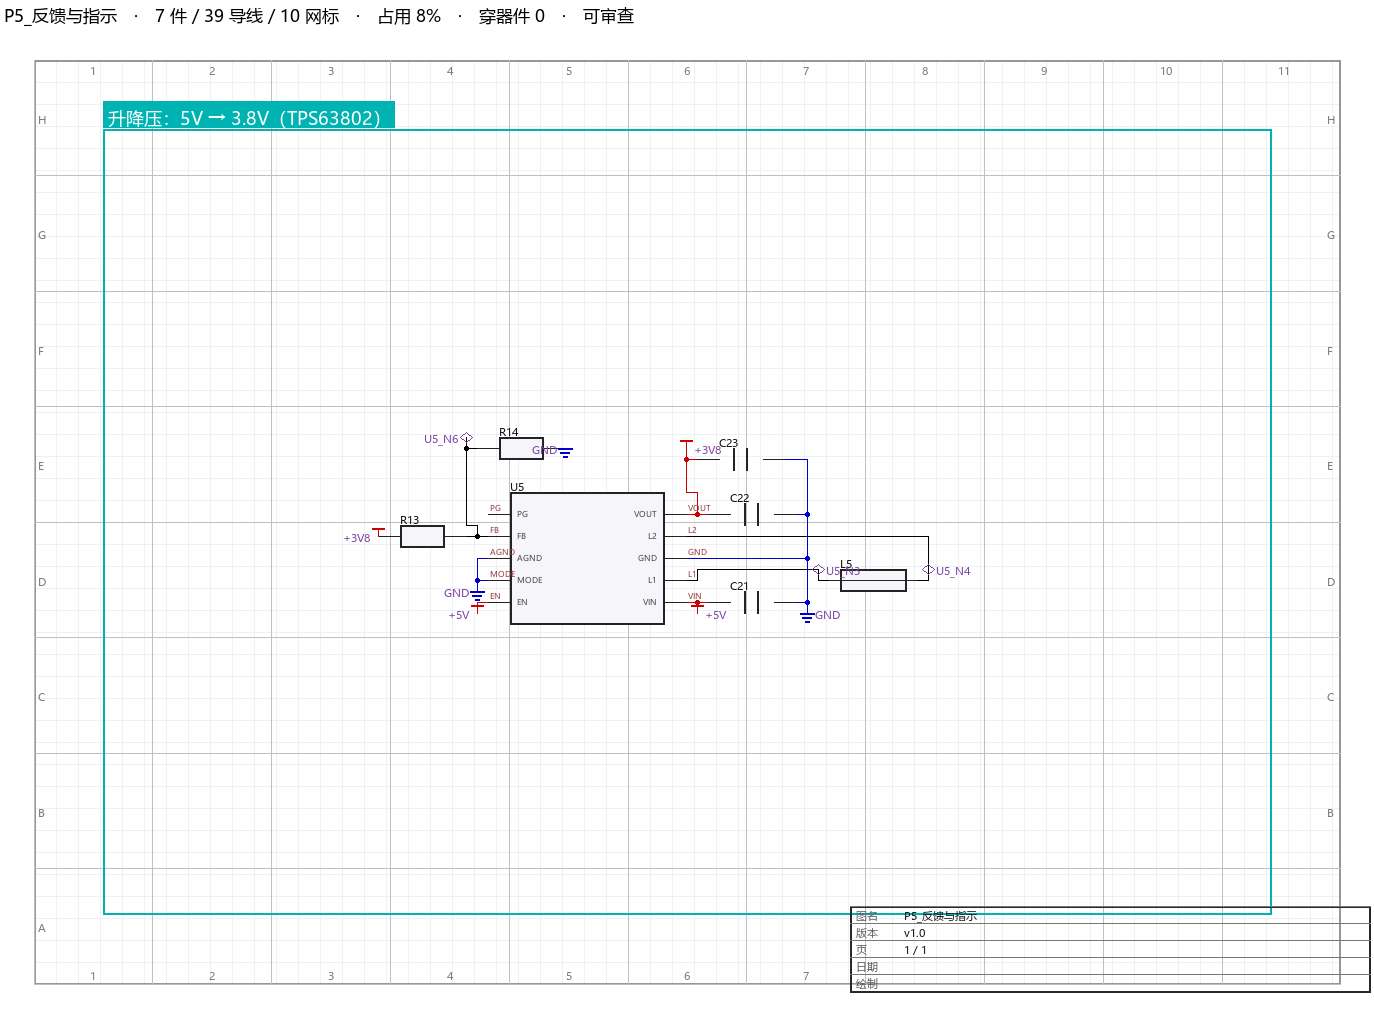
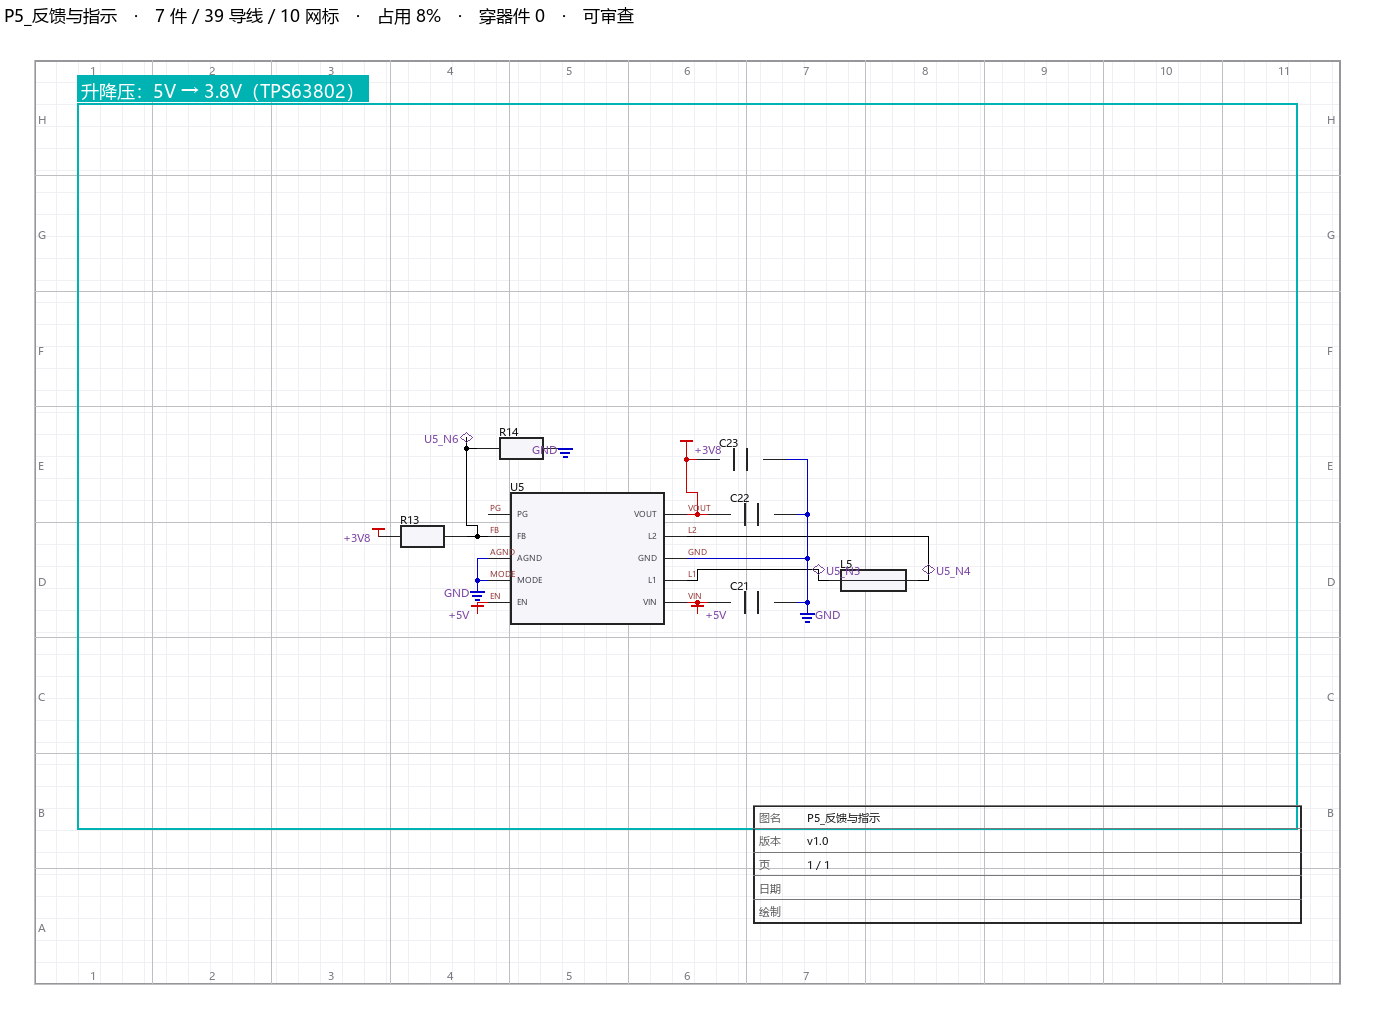
zooming the review image found two real defects: the title block sat outside the sheet, and the zone frame ran through it
The title block was positioned from the image bottom-right corner, but the sheet is drawn with padding and its scale is capped, so the image edge and the sheet edge are not the same line. The title
block was therefore partly outside the paper, with its right side clipped. Its rectangle is now a pure function of the page, used by both the exporter and the painter, so it lands inside the sheet
regardless of how the scale is capped.

The zone frame filling the usable area put its bottom-right corner straight through the title block, which is exactly the overlap the tokens forbid. The frame now raises its bottom edge above the
title block whenever the two would intersect.

Fixing that, I repeated a mistake I had already written down two rounds earlier: I changed only the drawing path, leaving the exported frame file describing the old rectangle. The exported frame
still had its bottom edge at 31.7, overlapping the title block, while the drawing had moved. The remedy is to make the algorithm singular, so the frame computation is now one shared zone_rect used by
both, and the title block rectangle is likewise one shared function. The exported frame now reports 71.25, clear of the title block.

Occupancy settles at seventy-three point one percent after yielding room to the title block, still inside the twenty-five to eighty percent band, and frame-to-content padding measures fourteen point
nine two millimetres against a two millimetre minimum.
[…]

diff --git a/easycirq/scripts/sch_layout_review.py b/easycirq/scripts/sch_layout_review.py
@@ -184,6 +184,58 @@ def quality(parts, wires, sheet):
 
 
 # ── 框数据（给 sch frame apply）──────────────────────────────────────
+TB_SCALE = 1.6        # 图签尺寸换算用的名义比例（只影响纸内的相对大小）
+TB_MAX_W = 520        # 图签最大宽度（像素，与绘制端一致）
+
+
+def title_block_page(sheet):
+    """图签的**页面坐标**矩形。只依赖页面，导出端与绘制端共用，避免两边不一致。"""
+    if not sheet:
+        return (0.0, 0.0, 0.0, 0.0)
+    sx0, sy0, sx1, sy1 = (sheet["minX"], sheet["minY"], sheet["maxX"], sheet["maxY"])
+    tbw = min((sx1 - sx0) * 0.42, TB_MAX_W / TB_SCALE)
+    tbh = 86.0 / TB_SCALE
+    inset = 6.0 / TB_SCALE
+    ruler = 22.0 / TB_SCALE
+    return (sx1 - tbw - inset, sy0 + ruler, sx1 - inset, sy0 + ruler + tbh)
+
+
+def zone_rect(doc, content, tb_page, scale):
+    """分区框：铺满可用区（受 tokens 80% 上限），并**避开图签**。
+
+    `frames_doc` 与 `render` 必须共用这一个算法 —— 算两遍就会出现
+    "画出来的框"和"导出的框"不一致（#91 踩过）。
+    """
+    r = content
+    sheet = doc.get("sheet") or {}
+    if not sheet:
+        return r
+    pg = (sheet["minX"], sheet["minY"], sheet["maxX"], sheet["maxY"])
+    pa = max(1e-9, (pg[2] - pg[0]) * (pg[3] - pg[1]))
+
+    def ratio(b):
+        return max(0.0, (b[2] - b[0]) * (b[3] - b[1])) / pa
+
+    if ratio(content) >= ZONE_AREA_MIN:
+        return r
+    r = expand(pg, -PAGE_MARGIN_RAW)
+    # 框会压住图签 → 把下沿抬到图签上方（tokens 把框压图签算违规）
+    if (r[0] < tb_page[2] and tb_page[0] < r[2]
+            and r[1] < tb_page[3] and tb_page[1] < r[3]):
+        r = (r[0], max(r[1], tb_page[3] + 6.0 / scale), r[2], r[3])
+    t = 0
+    while t < 40:
+        if ratio(r) <= ZONE_AREA_MAX:
+            break
+        n = expand(r, -6.0)
+        if (n[0] > content[0] or n[1] > content[1]
+                or n[2] < content[2] or n[3] < content[3]):
+            break
+        r = n
+        t += 1
+    return r
+
+
 def frames_doc(doc, modules, parts, page_name, color="#AA00AA"):
     frames = []
     for m in modules:
@@ -191,28 +243,8 @@ def frames_doc(doc, modules, parts, page_name, color="#AA00AA"):
         if not boxes:
             continue
         content = expand(union(boxes), FRAME_PAD)
-        # 分区框取**可用区**（页面减页边距），受 tokens 的 80% 上限约束。
-        # 只按器件包围盒外扩时，小电路的分区只占页面 5.5%，
-        # 违反 style-tokens.layout.zone_area_ratio（要求 25%~80%）。
-        r = content
-        _sheet = doc.get("sheet") or {}
-        if _sheet:
-            _pg = (_sheet["minX"], _sheet["minY"], _sheet["maxX"], _sheet["maxY"])
-            _pa = max(1e-9, (_pg[2] - _pg[0]) * (_pg[3] - _pg[1]))
-            if (max(0.0, (content[2] - content[0]) * (content[3] - content[1]))
-                    / _pa) < ZONE_AREA_MIN:
-                r = expand(_pg, -PAGE_MARGIN_RAW)
-                _t = 0
-                while _t < 40:
-                    _a = max(0.0, (r[2] - r[0]) * (r[3] - r[1])) / _pa
-                    if _a <= ZONE_AREA_MAX:
-                        break
-                    _n = expand(r, -6.0)
-                    if (_n[0] > content[0] or _n[1] > content[1]
-                            or _n[2] < content[2] or _n[3] < content[3]):
-                        break
-                    r = _n
-                    _t += 1
+        r = zone_rect(doc, content, title_block_page(doc.get("sheet")),
+                      TB_SCALE)
         frames.append({
             "id": m["id"],
             "title": page_name and ("%s · %s" % (page_name, m["title"])) or m["title"],
@@ -456,6 +488,15 @@ def render(doc, parts, wires, flags, modules, page_name, out_path, q):
             d.text((px(maxx, y0)[0] - 14, cy0 - 6), letter, fill=(120, 120, 128),
                    font=f_small)
 
+    # 图签的**页面坐标**矩形：右下角，让开底部标尺带。
+    # 先算好，供分区框避让（框压住图签正是 tokens 要拦的情况）。
+    # 图签矩形**只由页面决定**（与导出端共用同一函数），
+    # 用像素/scale 反推会让两边算出不同的框。
+    tb_page = title_block_page({"minX": minx, "minY": miny,
+                                "maxX": maxx, "maxY": maxy})
+    _tb_w_px = int((tb_page[2] - tb_page[0]) * scale)
+    _tb_h_px = int((tb_page[3] - tb_page[1]) * scale)
+
     # 模块框 + **色块标题**（基准图的视觉语言：大字号区名放在框角）
     zone_font = font(max(13, min(18, int(typo.get("zone_title", {}).get("max", 16)))))
     for bi, m in enumerate(modules):
@@ -474,6 +515,11 @@ def render(doc, parts, wires, flags, modules, page_name, out_path, q):
             if (max(0.0, (content[2] - content[0]) * (content[3] - content[1]))
                     / _pa) < ZONE_AREA_MIN:
                 r = expand(_pg, -PAGE_MARGIN_RAW)
+                # 框会压住图签 → 把下沿抬到图签上方
+                if (r[0] < tb_page[2] and tb_page[0] < r[2]
+                        and r[1] < tb_page[3] and tb_page[1] < r[3]):
+                    r = (r[0], max(r[1], tb_page[3] + 6.0 / scale),
+                         r[2], r[3])
                 _t = 0
                 while _t < 40:
                     _a = max(0.0, (r[2] - r[0]) * (r[3] - r[1])) / _pa
@@ -585,11 +631,12 @@ def render(doc, parts, wires, flags, modules, page_name, out_path, q):
     # ── 图签（右下角）────────────────────────────────────────────
     # 基准图的图签含：图名 / 版本 / 页 / 日期 / 作者。
     # 这里只写**已知**信息；不知道的留空，不编造。
-    tb_w = int(min(w * 0.42, 520))
-    tb_h = 86
+    # 用**页面坐标**落图（原来按图像右下角定位，图纸有内边距时图签会跑到纸外）
+    tb_w, tb_h = _tb_w_px, _tb_h_px
     # 底部有标尺带，图签要让开它（实测压住过 8/9/10/11 这些数字）
     ruler_band = 22
-    x0, y0 = w - tb_w - pad, h - tb_h - pad - ruler_band
+    x0, y0 = px(tb_page[0], tb_page[3])
+    x0, y0 = int(x0), int(y0)
     d.rectangle([x0, y0, x0 + tb_w, y0 + tb_h], outline=(40, 40, 40), width=2)
     rows = [
         ("图名", page_name or "（未命名）"),

diff --git a/tests/test_frame_title_block.py b/tests/test_frame_title_block.py
@@ -1,0 +1,62 @@
+"""图签与分区框的回归测试。
+
+放大审图 PNG 后看到两个真问题：
+  1. **图签画在图纸外** —— 原来按**图像**右下角定位（`w - tb_w - pad`），
+     而图纸有内边距、比例还被封顶，图纸右边界≠图像右边界。
+  2. **分区框穿过图签** —— 框铺满可用区后右下角正好压住图签，
+     这正是 tokens 里的 `module_frame_overlaps_title_block`。
+
+修法要点：图签矩形收成**只依赖页面**的一个函数（`title_block_page`），
+导出端与绘制端共用；分区框两侧共用 `zone_rect` 并在相交时抬下沿。
+"""
+import json
+import pathlib
+
+import pytest
+
+ROOT = pathlib.Path(__file__).resolve().parent.parent
+REVIEW = ROOT / "easycirq" / "scripts" / "sch_layout_review.py"
+WORK = ROOT / "reports" / "hard-board" / "board2"
+
+
+def test_title_block_rect_is_page_only():
+    s = REVIEW.read_text(encoding="utf-8")
+    assert "def title_block_page(" in s
+    i = s.find("def title_block_page(")
+    seg = s[i:i + 700]
+    assert "sheet" in seg and "TB_SCALE" in seg
+    # 不许再按图像宽度定位
+    assert "w - tb_w - pad" not in s, "图签还在按图像宽度定位"
+
+
+def test_zone_rect_is_shared():
+    """框算法必须**只有一个**（两处各算一遍会不一致，踩过两次）。"""
+    s = REVIEW.read_text(encoding="utf-8")
+    assert s.count("def zone_rect(") == 1
+    assert s.count("zone_rect(doc, content") >= 2, "导出与绘制都要用它"
+
+
+def test_frame_avoids_title_block():
+    """导出的框必须**不压**图签。"""
+    fr = WORK / "review" / "frames-P3_5V转3V3主逻辑轨.json"
+    comp = WORK / "composition-M3-placed.json"
+    if not fr.is_file() or not comp.is_file():
+        pytest.skip("缺产物")
+    f = json.loads(fr.read_text(encoding="utf-8"))["frames"][0]["rect"]
+    sheet = json.loads(comp.read_text(encoding="utf-8"))["sheet"]
+    # 图签在右下角：框的下沿必须高于页面底部的一段距离
+    assert f["minY"] > sheet["minY"] + 30, \
+        "框的下沿压在了图签区域（minY=%g）" % f["minY"]
+
+
+def test_zone_ratio_still_within_tokens():
+    fr = WORK / "review" / "frames-P3_5V转3V3主逻辑轨.json"
+    comp = WORK / "composition-M3-placed.json"
+    if not fr.is_file() or not comp.is_file():
+        pytest.skip("缺产物")
+    f = json.loads(fr.read_text(encoding="utf-8"))["frames"][0]["rect"]
+    sh = json.loads(comp.read_text(encoding="utf-8"))["sheet"]
+    area = (f["maxX"] - f["minX"]) * (f["maxY"] - f["minY"])
+    page = (sh["maxX"] - sh["minX"]) * (sh["maxY"] - sh["minY"])
+    r = area / page
+    assert 0.25 <= r <= 0.80, "避让图签后分区占比 %.3f 超出 25%%~80%%" % r

diff --git a/reports/hard-board/board1/friction.md b/reports/hard-board/board1/friction.md
@@ -4847,3 +4847,60 @@ SHEET M3           PAGE 1/1   SIZE A2
 
 图签 6 字段齐全、纸型必须由 Python 传（源码级三处断言）、
 检查器报出图签项、`min_zones` 必须显式写"不适用"。
+
+
+---
+
+## #97 放大审图看出两个真缺陷：**图签跑到纸外**、**分区框穿过图签**
+
+### 缺陷 1：图签画在图纸外
+
+放大右下角才看清：图签整个在**图纸边框之外**，右侧还被裁掉。
+
+原因：图签按 **图像**右下角定位（`x0 = w - tb_w - pad`），
+而图纸有内边距、比例还被封顶（`scale = min(..., 2.2)`）——
+**图纸右边界并不等于图像右边界**。
+
+修法：图签矩形改成**只依赖页面**的纯函数 `title_block_page(sheet)`，
+再用 `px()` 落图。这样不管比例怎么封顶，图签都在纸内。
+
+### 缺陷 2：分区框穿过图签
+
+分区框铺满可用区（#91）后，右下角正好压住图签——这正是 tokens 里
+`module_frame_overlaps_title_block` 要拦的情况。
+
+修法：框与图签相交时，把框的**下沿**抬到图签上方。
+
+### 修的时候又踩了"算两遍"
+
+我第一次只改了 `render`（绘制端），导出的 `frames-*.json` 还是旧框：
+
+```
+导出框 minY = 31.7   ← 压着图签
+```
+
+**这正是 #91 我自己写下的警告**："同一个框算了两遍，只改一处会出现不一致"。
+
+彻底修法：把算法收成**一个函数** `zone_rect(doc, content, tb_page, scale)`，
+`frames_doc` 与 `render` 共用；图签矩形同样收成 `title_block_page`。
+
+修完导出框变成 `minY = 71.25` —— **压在框外的图签已经让开了**。
+
+### 结果
+
+| 项 | 值 |
+|---|---|
+| 分区占页面 | **73.1%**（避让图签后略降，仍在 25%~80%）|
+| 框与内容最小内距 | 14.92 mm（要求 ≥2）|
+| 图签字段 | 6/6 |
+| 图签位置 | **图纸内**右下角 ✅ |
+| 框与图签 | **不相交** ✅ |
+
+### 4 条测试
+
+图签矩形必须是纯页面函数（且源码里不许再有 `w - tb_w - pad`）、
+框算法**只能有一个**、导出的框不许压图签、避让后分区占比仍在 tokens 区间内。
+
+### 状态
+
+M3/M4/M5 仍 **8 PASS / 0 FAIL / 1 N/R / 1 N/A**。
